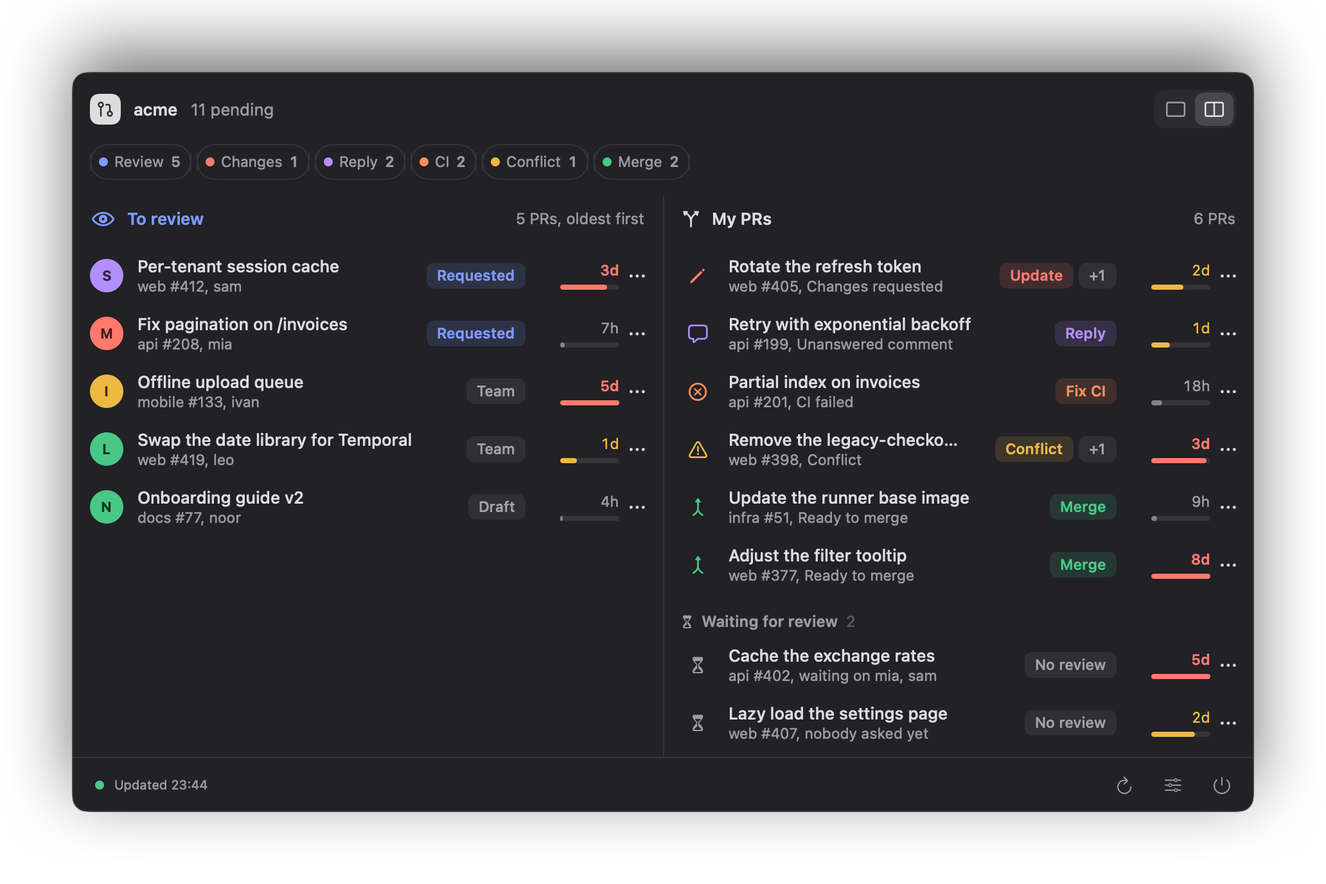
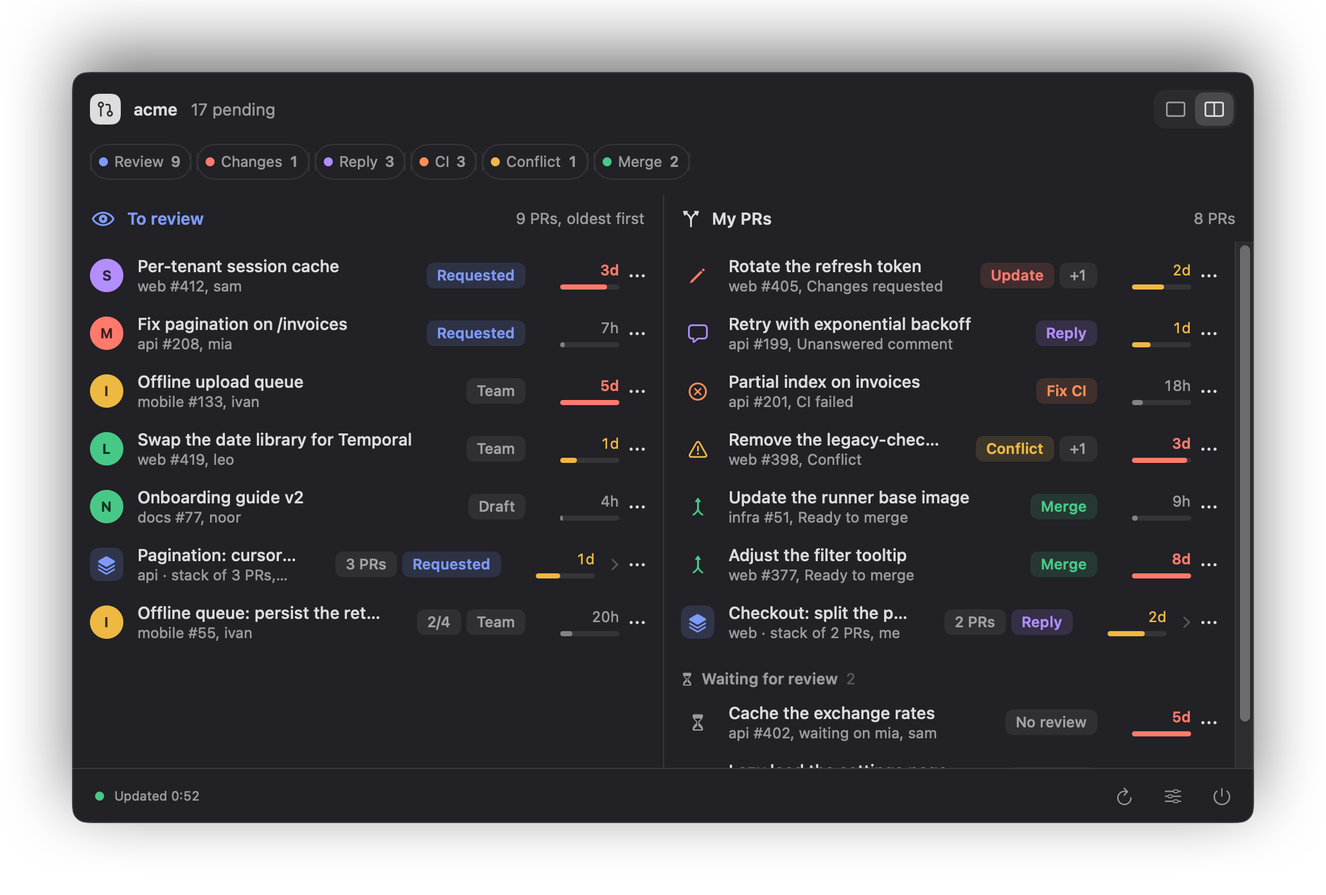
Bring the READMEs up to date and add pictures of agents, stacks and batches
Both READMEs now cover reviews with Claude (background, follow-ups, Automatic
and Ask me, the request, the folder), stacks and reviewing several pull
requests at once, the Dock icon, the What's new page and the new wizard steps.
The limits, privacy notes, settings table and roadmap follow.

The popover takes an initial state (a stack opened, pull requests ticked, a
review open) so the README pictures can show those screens, and
`make screenshots` renders them. The other pictures are rendered again with
the demo data, which now has stacks.

diff --git a/Sources/PRPulse/PopoverView.swift b/Sources/PRPulse/PopoverView.swift
@@ -21,6 +21,9 @@ struct PopoverView: View {
     var entersOnAppear = false
     /// Called when something inside the popover changes what it needs to show, so its window can follow.
     var onContentChange: () -> Void = {}
+    /// What the pictures of the README start with: a stack opened, pull requests ticked, the agents with a review open.
+    var initialStack: (tab: PopoverTab, key: StackKey)?
+    var initialSelection: Set<PullRequestRef>?
     let onRefresh: () -> Void
     let onSettings: () -> Void
 
@@ -44,6 +47,9 @@ struct PopoverView: View {
         agentFocus: AgentFocus = AgentFocus(),
         entersOnAppear: Bool = false,
         onContentChange: @escaping () -> Void = {},
+        initialStack: (tab: PopoverTab, key: StackKey)? = nil,
+        initialSelection: Set<PullRequestRef>? = nil,
+        initialAgentRun: UUID? = nil,
         initialTab: PopoverTab = .review,
         initialFilter: ActionLane? = nil,
         onRefresh: @escaping () -> Void,
@@ -62,11 +68,15 @@ struct PopoverView: View {
         self.agentFocus = agentFocus
         self.entersOnAppear = entersOnAppear
         self.onContentChange = onContentChange
+        self.initialStack = initialStack
+        self.initialSelection = initialSelection
         self.onRefresh = onRefresh
         self.onSettings = onSettings
         _tab = LocalState(initialValue: initialTab)
         _filter = LocalState(initialValue: initialFilter)
         _entered = LocalState(initialValue: !entersOnAppear)
+        _showsAgents = LocalState(initialValue: initialAgentRun != nil)
+        _openRun = LocalState(initialValue: initialAgentRun)
     }
 
     private static let singleWidth: CGFloat = 560
@@ -133,7 +143,7 @@ struct PopoverView: View {
                     .folded(!isSingle, height: 50)
                 LaneFilterBar(lanes: summary.activeLanes, summary: summary, selection: laneSelection(summary))
                     .padding(.bottom, 12)
-                SummaryPanes(summary: summary, layout: layout, tab: tab, filter: filter, entered: entered, showsOwner: data.showsOwner, onMute: onMute, onReview: onReview, onReviewInDesktop: onReviewInDesktop, onReviewGroup: onReviewGroup, onReviewEach: onReviewEach, onContentChange: onContentChange)
+                SummaryPanes(summary: summary, layout: layout, tab: tab, filter: filter, entered: entered, showsOwner: data.showsOwner, onMute: onMute, onReview: onReview, onReviewInDesktop: onReviewInDesktop, onReviewGroup: onReviewGroup, onReviewEach: onReviewEach, initialStack: initialStack, initialSelection: initialSelection, onContentChange: onContentChange)
             }
         }
     }
@@ -199,6 +209,8 @@ private struct SummaryPanes: View {
     let onReviewInDesktop: ((PullRequestSnapshot) -> Void)?
     let onReviewGroup: (([PullRequestSnapshot], ReviewRequest.Scope) -> Void)?
     let onReviewEach: (([PullRequestSnapshot]) -> Void)?
+    var initialStack: (tab: PopoverTab, key: StackKey)?
+    var initialSelection: Set<PullRequestRef>?
     let onContentChange: () -> Void
 
     @LocalState private var heights: [PopoverTab: CGFloat] = [:]
@@ -236,6 +248,13 @@ private struct SummaryPanes: View {
         .animation(PopoverMotion.spring, value: tab)
         .onChange(of: openStacks) { _, _ in onContentChange() }
         .onChange(of: selecting) { _, _ in onContentChange() }
+        .onAppear {
+            if let initialStack { openStacks[initialStack.tab] = initialStack.key }
+            if let initialSelection {
+                selecting = true
+                selection = initialSelection
+            }
+        }
     }
 
     // MARK: Panes

diff --git a/Sources/PRPulse/ReadmeShots.swift b/Sources/PRPulse/ReadmeShots.swift
@@ -16,6 +16,9 @@ enum ReadmeShots {
             render(HeroScene(scheme: scheme, data: data), named: "hero-\(tag)", scheme: scheme, to: directory)
             render(floating(popover(data, scheme, layout: .single), radius: 12, scheme: scheme), named: "popover-\(tag)", scheme: scheme, to: directory)
             render(floating(popover(data, scheme, layout: .split), radius: 12, scheme: scheme), named: "popover-split-\(tag)", scheme: scheme, to: directory)
+            render(floating(popover(data, scheme, layout: .single, stack: StackKey(owner: "acme", repo: "api", number: 7)), radius: 12, scheme: scheme), named: "stack-\(tag)", scheme: scheme, to: directory)
+            render(floating(popover(data, scheme, layout: .single, selection: Self.picked), radius: 12, scheme: scheme), named: "batch-\(tag)", scheme: scheme, to: directory)
+            render(floating(agents(data, scheme), radius: 12, scheme: scheme), named: "agents-\(tag)", scheme: scheme, to: directory)
             render(floating(DemoSnapshot.wizard(.exceptions), radius: 16, scheme: scheme), named: "wizard-\(tag)", scheme: scheme, to: directory)
             render(floating(DemoSnapshot.settings(.organization, login: "octocat"), radius: 16, scheme: scheme), named: "settings-\(tag)", scheme: scheme, to: directory)
             render(StatesStrip(scheme: scheme), named: "menubar-\(tag)", scheme: scheme, to: directory)
@@ -23,9 +26,35 @@ enum ReadmeShots {
         }
     }
 
-    private static func popover(_ data: ViewData, _ scheme: ColorScheme, layout: PopoverLayout) -> some View {
-        PopoverView(data: data, layout: .constant(layout), onRefresh: {}, onSettings: {})
-            .background(Color(nsColor: scheme == .dark ? NSColor(hex: 0x24252B) : NSColor(hex: 0xF5F5F8)))
+    private static let picked: Set<PullRequestRef> = [
+        PullRequestRef(owner: "acme", repo: "api", number: 301),
+        PullRequestRef(owner: "acme", repo: "api", number: 302),
+        PullRequestRef(owner: "acme", repo: "api", number: 303),
+        PullRequestRef(owner: "acme", repo: "web", number: 412),
+    ]
+
+    private static func popover(
+        _ data: ViewData, _ scheme: ColorScheme, layout: PopoverLayout, stack: StackKey? = nil, selection: Set<PullRequestRef>? = nil
+    ) -> some View {
+        PopoverView(
+            data: data, layout: .constant(layout),
+            onReviewGroup: stack != nil || selection != nil ? { _, _ in } : nil,
+            onReviewEach: stack != nil || selection != nil ? { _ in } : nil,
+            initialStack: stack.map { (PopoverTab.review, $0) }, initialSelection: selection,
+            onRefresh: {}, onSettings: {}
+        )
+        .background(Color(nsColor: scheme == .dark ? NSColor(hex: 0x24252B) : NSColor(hex: 0xF5F5F8)))
+    }
+
+    /// The panel with the agents open and a review that is ready, with its follow-up box.
+    private static func agents(_ data: ViewData, _ scheme: ColorScheme) -> some View {
+        let runs = DemoSnapshot.sampleRuns()
+        return PopoverView(
+            data: data, layout: .constant(.single),
+            agentRuns: runs, agentActions: AgentActions(), initialAgentRun: runs.runs[1].id,
+            onRefresh: {}, onSettings: {}
+        )
+        .background(Color(nsColor: scheme == .dark ? NSColor(hex: 0x24252B) : NSColor(hex: 0xF5F5F8)))
     }
 
     private static func floating<Content: View>(_ view: Content, radius: CGFloat, scheme: ColorScheme) -> some View {

diff --git a/Sources/PRPulse/DemoSnapshot.swift b/Sources/PRPulse/DemoSnapshot.swift
@@ -93,7 +93,7 @@ enum DemoSnapshot {
         case followUp
     }
 
-    private static func sampleRuns(_ scene: AgentScene = .plain) -> AgentRunList {
+    static func sampleRuns(_ scene: AgentScene = .plain) -> AgentRunList {
         let now = Date()
         func make(_ number: Int, _ repo: String, _ title: String, minutes: Double) -> AgentRun {
             AgentRun(

diff --git a/README.md b/README.md
@@ -6,7 +6,7 @@
 
 <p align="center">
   <b>Know which pull requests need you, before anyone has to ask.</b><br>
-  A native menu bar app for macOS that watches one GitHub organization and tells you what to act on.
+  A native menu bar app for macOS that watches your GitHub organizations and tells you what to act on.
 </p>
 
 <p align="center">
@@ -20,6 +20,7 @@
 <p align="center">
   <a href="#install">Install</a> ·
   <a href="#what-you-get">What you get</a> ·
+  <a href="#review-pull-requests-with-claude">Claude</a> ·
   <a href="#what-counts-as-needs-you">What counts</a> ·
   <a href="#privacy">Privacy</a> ·
   <a href="#development">Development</a> ·
@@ -49,7 +50,9 @@ Tap the action filters to dim everything else, or switch between a single view a
 
 Under **My PRs** there is a quieter section, **Waiting for review**: your own PRs that went a couple of days (you choose how many) without a single review. They ask nothing of you and never change the icon, but each one has a *Copy link* button so you can nudge the right person.
 
-Every row has a **⋯** menu: open on GitHub, copy the link and, on the review list, *Mute this repository* so it stops showing without opening Settings.
+Every row has a **⋯** menu: open on GitHub, copy the link and, on the review list, *Review with Claude* and *Mute this repository* so it stops showing without opening Settings.
+
+Pull requests in a GitHub **stack** are put together in one row, and you can tick several to review at once; see [Stacks, and several pull requests at once](#stacks-and-several-pull-requests-at-once).
 
 <table>
   <tr>
@@ -101,7 +104,7 @@ Right click (or control click) the icon for the things you do without opening th
 
 ### Set up in a minute
 
-A short wizard connects your account, picks the organization, and asks what to leave out. A live preview of the popover on the left reacts to every choice, so you see the effect of ignoring a repository before you finish.
+A short wizard connects your account, picks the organizations, asks what to leave out and how you want to be told, whether Claude may review for you, and which mascot lives on your screen. A live preview of the popover on the left reacts to every choice, so you see the effect of ignoring a repository before you finish.
 
 <p align="center">
   <picture>
@@ -110,7 +113,9 @@ A short wizard connects your account, picks the organization, and asks what to l
   </picture>
 </p>
 
-Everything can be changed later in **Settings**, which counts your unsaved changes, marks the section they are in, and lets you discard them or save with ⌘S.
+Everything can be changed later in **Settings**, which counts your unsaved changes, marks the section they are in, and lets you discard them or save with ⌘S. A **What's new** page there lists what changed in each version.
+
+While the wizard or Settings is open, PRPulse shows in the Dock and in the app switcher (⌘Tab), so you can find the window again after another app takes the front. It goes back to the menu bar alone when the last window closes.
 
 <p align="center">
   <picture>
@@ -135,6 +140,7 @@ A little friend lives in the bottom right corner of your screen and reacts to wh
 | Nothing to do | calm, and asleep after half an hour of quiet |
 | Something needs you | alert, with the count on its shoulder |
 | A new item arrived | jumps for joy and says it in a bubble, next to the system notification |
+| A review by Claude is ready, or waits for your OK | says so in a bubble, next to the notification |
 | A request, or one of your PRs, waits for 3 days or more | worried, with a sweat drop |
 | Refreshing | thinking |
 | Can't reach GitHub | sad |
@@ -156,15 +162,52 @@ Six characters come with the app. To add your own, drop a folder with a `sprites
 
 The moods are `calm`, `sleep`, `alert`, `joy`, `worried`, `think` and `sad`. Only `calm` is required; a mood you leave out plays `calm`. `make mascots` redraws the built-in ones.
 
-### Ask Claude to review a PR
+### Review pull requests with Claude
 
-On a pull request waiting for your review, the `⋯` menu (and a right click) has **Review with Claude**. With [Claude Code](https://claude.com/claude-code) installed and signed in (run `claude` once in a terminal and use `/login`), it **runs in the background**: a `✦` button appears in the panel header with the reviews in progress (what the agent is reading right now, and for how long), you get a notification when one is ready, and opening it shows the review with buttons to continue the conversation in Claude Desktop or Terminal. The agent reads on its own: the code and the PR (`gh pr view`, `gh pr diff`, `git log`…). For anything else, Settings → Agents has **Approvals**. **Automatic** (the default) uses Claude Code's [auto mode](https://code.claude.com/docs/en/permission-modes): its classifier decides what is safe, so reviews rarely wait for you. PRPulse keeps it read-only on top of that: its commands run in a sandbox where the repository folder cannot be written and only GitHub can be reached (`~/.ssh`, `~/.aws` and `~/.gnupg` cannot be read), and editing files, changing git or writing to GitHub (`gh pr comment`, `gh api`…) is denied. If auto mode is not available to you, Claude Code asks instead. **Ask me** keeps the review waiting with the command shown, with a notification, until you press Allow or Deny (once, never remembered). Under a review that is ready there is a box to **ask a follow-up** in the same conversation. Without Claude Code, or from the menu's second item, it opens a draft in Claude Desktop instead (you press Enter to send it). The request holds the PR's address, the focus (performance, security, code and project conventions) and a note not to post anything on GitHub. If you already have a review skill under `~/.claude` or in a plugin, the request names it instead; Settings → Agents lets you pick one and edit the text. The session opens in the folder of the repository's clone (PRPulse looks in your usual folders and asks when it cannot find one), or, if you set a **default project** for the organization, in that folder for every repository of it: handy when you keep all of an organization's projects under one root folder and run your sessions there. Only the PR's address and number go in the request, never its title or description, which other people wrote. Cursor and Codex are planned.
+On a pull request waiting for your review, the `⋯` menu (and a right click) has **Review with Claude**. It needs [Claude Code](https://claude.com/claude-code) installed and signed in (run `claude` once in a terminal and use `/login`), and [`gh`](https://cli.github.com) signed in, because the agent reads the pull request with it.
+
+<p align="center">
+  <picture>
+    <source media="(prefers-color-scheme: dark)" srcset="docs/images/agents-dark.png">
+    <img src="docs/images/agents-light.png" alt="A review by Claude that is ready, with a box to ask a follow-up" width="520">
+  </picture>
+</p>
+
+- **In the background.** Nothing opens. A `✦` button appears in the panel header with the reviews in progress (what the agent is reading right now, and for how long) and the ones done. A notification and the mascot tell you when one is ready.
+- **Ask more.** Under a review that is ready there is a box to **ask a follow-up** in the same conversation. *Stop* interrupts an answer and keeps the review. You can also continue it in Claude Desktop or Terminal, copy it, or try again.
+- **Read-only.** The agent reads the code and the PR on its own (`gh pr view`, `gh pr diff`, `git log`…). Settings → Agents → **Approvals** decides the rest:
+  - **Automatic**, the default, uses Claude Code's [auto mode](https://code.claude.com/docs/en/permission-modes): its classifier decides what is safe, so reviews rarely wait for you. PRPulse keeps it read-only on top of that: commands run in a sandbox where the repository folder cannot be written and only GitHub can be reached (`~/.ssh`, `~/.aws` and `~/.gnupg` cannot be read), and editing files, changing git or writing to GitHub (`gh pr comment`, `gh api`…) is denied. If auto mode is not available to you, Claude Code asks instead.
+  - **Ask me** keeps the review waiting, with the command shown and a notification, until you press Allow or Deny (once, never remembered).
+- **The request.** It holds the pull request's address, the focus (performance, security, code and project conventions) and a note not to post anything on GitHub. Only the address and number go in, never the title or description, which other people wrote. If you have a review skill under `~/.claude` or in a plugin, the request names it; Settings → Agents lets you pick a skill and edit the text (`{url}`, `{urls}`, `{repo}`, `{number}` and `{skill}` are filled in).
+- **The folder.** The session opens in the clone of the repository (PRPulse looks in your usual folders and asks when it cannot find one), or in the **default project** of the organization if you set one: handy when you keep all of an organization's projects under one root folder and run your sessions there.
+- **Claude Desktop.** Without Claude Code, or from the menu's second item, **Open draft in Claude Desktop** opens a session with the request already written (you press Enter to send it). A review that ran in the background does not show in Claude Desktop's list by itself; Help → Troubleshooting → *Import Claude Code CLI sessions* there may bring it, and a note under each review says so.
+
+Cursor and Codex are planned.
 
 ### Stacks, and several pull requests at once
 
 Pull requests in a [GitHub stack](https://docs.github.com/en/pull-requests/get-started/about-stacked-prs) are put together in one row, with a layers icon, how many there are, and a `1/3` on each of them. Click the row and the list becomes that stack, bottom first, with **Review the stack with Claude** (one conversation that sees all of them, from the bottom to the top) and **Review each with Claude** (one conversation for each). In a list that has only some of a stack, the row says so (`2 of 4 PRs of a stack`). A host that does not have stacks, such as GitHub Enterprise Server, shows the plain list.
 
 For pull requests that belong together without being a stack, for example one in each repository of the same feature, **Select** (above the list) puts a checkbox on every row. Tick the ones you want, a stack ticks all of its pull requests, then choose **Review together** or **Review each**. A review of several repositories opens in the first one's folder and can read the clones of the others (never write to them).
+
+<table>
+  <tr>
+    <td width="50%" align="center">
+      <picture>
+        <source media="(prefers-color-scheme: dark)" srcset="docs/images/stack-dark.png">
+        <img src="docs/images/stack-light.png" alt="A stack of three pull requests, open" width="100%">
+      </picture>
+      <br><sub>A stack, open: only its pull requests</sub>
+    </td>
+    <td width="50%" align="center">
+      <picture>
+        <source media="(prefers-color-scheme: dark)" srcset="docs/images/batch-dark.png">
+        <img src="docs/images/batch-light.png" alt="Pull requests ticked to be reviewed together" width="100%">
+      </picture>
+      <br><sub>Several ticked, from any repository</sub>
+    </td>
+  </tr>
+</table>
 
 ### Quiet by design
 
@@ -219,6 +262,8 @@ You need macOS 14 or later and the Swift toolchain (Xcode or the Command Line To
 2. **Organizations:** pick one or more. The ones you worked in most over the last 90 days come first, with a count.
 3. **Exceptions:** tick repositories to ignore (they are listed from the organization) and edit the bot accounts to skip.
 4. **Settings:** refresh interval, notifications, open at login.
+5. **Reviews with Claude:** turn them on, see whether Claude Desktop and Claude Code are ready, and choose who approves (Automatic or Ask me).
+6. **Mascot:** pick the character that lives in the corner of your screen, or turn it off.
 
 > [!NOTE]
 > If your organization enforces SAML SSO, authorize the token for it on GitHub, otherwise the icon turns into the error state. The same happens if the organization is renamed or your token can't see it. Classic tokens must include the `repo` scope, or private repositories would never show up.
@@ -250,7 +295,7 @@ Every row shows how long the PR has been open: neutral under a day, amber from o
 
 - PRPulse talks **only to GitHub** (`api.github.com` and `github.com`) with your own credentials. There is no server of ours, no analytics and no telemetry.
 - A personal token is stored in the **macOS Keychain**. With the `gh` option, the token is read from `gh` on demand and never stored by PRPulse.
-- **Review with Claude** hands the PR's address to Claude Code or Claude Desktop on your Mac. PRPulse sends nothing anywhere for it; what they do with the request follows their own terms, and a background review uses your Claude plan like any other session. The reviews are kept in `~/Library/Application Support/PRPulse/` (the latest twenty), and nothing else is stored.
+- **Review with Claude** runs Claude Code on your Mac, or hands the request to Claude Desktop. PRPulse sends nothing anywhere for it: only the PR's address and number go in the request, what Claude does with it follows its own terms, and a background review uses your Claude plan like any other session. In the Automatic mode its commands run in a sandbox that cannot write to your repository and reaches only GitHub. The reviews are kept in `~/Library/Application Support/PRPulse/` (the latest twenty), and nothing else is stored.
 - Update checks read one small feed file from your releases page on `github.com`. Nothing about you or your Mac is sent.
 - Updates are signed with a key only the maintainer holds, and the app refuses anything that doesn't match.
 - The app is open source (MIT), so all of this is checkable.
@@ -263,7 +308,7 @@ Every row shows how long the PR has been open: neutral under a day, amber from o
 | **Organizations** | which organizations to watch |
 | **Exceptions** | repositories to ignore, your list of bot accounts, and two switches: ignore comments from bots, ignore PRs opened by bots |
 | **Mascot** | show it or not, which character, its size, where it sits, and your own characters |
-| **Agents** | turn "Review with Claude" on or off, check Claude Desktop and Claude Code, pick the review skill, set a default project folder per organization, edit the request, and the folders chosen for single repositories |
+| **Agents** | turn "Review with Claude" on or off, check Claude Desktop and Claude Code, choose who approves (Automatic or Ask me), pick the review skill, set a default project folder per organization, edit the request, and the folders chosen for single repositories |
 | **General** | refresh interval (1 to 30 minutes), popover layout, days before a PR counts as waiting for review, notifications, open at login, global shortcut, automatic updates, run the setup again |
 | **Diagnostics** | version, last sync, GitHub request budget, and a button that copies all of it for a bug report (no token, organization or PR names) |
 | **What's new** | what changed in each version of PRPulse, from the changelog that ships with the app |
@@ -272,6 +317,8 @@ Every row shows how long the PR has been open: neutral under a day, amber from o
 
 - Sign-in through the browser is not available yet; use `gh` or a token.
 - The app is signed ad hoc, so after each update macOS may ask again whether PRPulse can read its Keychain item. Choose **Always Allow**; if you deny it, the icon shows the error state.
+- Reviews with Claude need Claude Code and `gh` signed in; Cursor and Codex are not supported yet. Several background reviews at once use your Claude plan faster, and *Review each* on a big stack starts one for every pull request.
+- Stacks come from GitHub's own stacked pull requests. On a host without them, such as GitHub Enterprise Server, every pull request shows on its own row.
 - Versions before 0.3.0 don't update themselves: install the latest once, by hand or with `brew upgrade`.
 
 ## Development
@@ -279,7 +326,7 @@ Every row shows how long the PR has been open: neutral under a day, amber from o
 ```text
 Sources/PRPulseCore   rules, GitHub client, auth, notification planner (pure, tested)
 Sources/PRPulse       the macOS shell: status item, popover, wizard, settings
-Tests/                170+ unit tests (Swift Testing)
+Tests/                300+ unit tests (Swift Testing)
 scripts/              build, dmg, icon and test helpers
 docs/images/          the pictures above, generated by `make screenshots`
 ```
@@ -306,6 +353,8 @@ Ideas, in no particular order. Open an issue if one matters to you.
 - [ ] Sign in with GitHub in the browser (device flow)
 - [ ] Snooze a PR for a while, not only mute its repository
 - [ ] A shortcut you can change
+- [ ] Cursor and Codex as review agents
+- [ ] A limit for how many background reviews run at once
 
 ## Contributing
 

diff --git a/README.pt-BR.md b/README.pt-BR.md
@@ -6,7 +6,7 @@
 
 <p align="center">
   <b>Saiba quais pull requests precisam de você, antes que alguém precise cobrar.</b><br>
-  Um app nativo de barra de menu para macOS que acompanha uma organização do GitHub e mostra o que exige uma ação sua.
+  Um app nativo de barra de menu para macOS que acompanha as suas organizações do GitHub e mostra o que exige uma ação sua.
 </p>
 
 <p align="center">
@@ -40,15 +40,24 @@ O PRPulse consulta o GitHub a cada poucos minutos, mantém **duas listas curtas*
 - **Minhas PRs:** as suas PRs que exigem uma ação, cada uma com o verbo que resolve: *Ajustar*, *Responder*, *Corrigir CI*, *Conflito*, *Merge*.
 - **Filtros por ação** e dois layouts, visão única ou lado a lado. A escolha fica salva.
 - **Esperando review:** uma seção mais discreta em *Minhas PRs* com as suas PRs que passaram alguns dias (você escolhe quantos) sem nenhum review. Elas não pedem nada de você e não mudam o ícone, mas cada uma tem o botão *Copiar link* para você cobrar a pessoa certa.
-- **Menu ⋯ em cada linha:** abrir no GitHub, copiar o link e, na lista de revisão, *Silenciar o repositório*, sem abrir os Ajustes.
+- **Menu ⋯ em cada linha:** abrir no GitHub, copiar o link e, na lista de revisão, *Revisar com o Claude* e *Silenciar o repositório*, sem abrir os Ajustes.
 - **Uma ou várias organizações**, e um **atalho global**, ⌥⌘P, que abre e fecha o painel de qualquer lugar.
 - **Um ícone que avisa antes de você olhar:** um glifo de pull request que acompanha o tema da barra quando está tudo em dia, vira uma pílula laranja com o número quando algo precisa de você, faz um anel de pulso quando chega um item novo e fica vermelho se não conseguir atualizar.
 - **Menu do botão direito:** atualizar agora (⌘R), abrir no GitHub (buscas já filtradas pela sua organização), liga/desliga de notificações, Ajustes (⌘,), Sobre e Sair.
-- **Assistente de configuração** com prévia ao vivo do popover, e uma tela de **Ajustes** que conta as alterações não salvas (⌘S salva).
+- **Assistente de configuração** com prévia ao vivo do popover (conexão, organizações, exceções, frequência, revisão com o Claude e mascote), e uma tela de **Ajustes** que conta as alterações não salvas (⌘S salva) e tem uma aba **Novidades** com o que mudou em cada versão.
+- **Um ícone no Dock enquanto uma janela está aberta:** com o assistente ou os Ajustes abertos, o PRPulse aparece no Dock e no ⌘Tab, para você achar a janela de novo depois de outro app passar na frente. Ao fechar a última, ele volta a ficar só na barra de menu.
 - **Atualiza sozinho:** busca versões novas e instala em segundo plano (dá para desligar em Ajustes).
 - **Um mascote no canto da tela:** um amiguinho no canto inferior direito que reage ao que acontece (alerta, comemora item novo, se preocupa com PR antiga, dorme quando está tudo em dia). Dá para arrastar, trocar de personagem e de tamanho, e adicionar o seu em `~/Library/Application Support/PRPulse/Mascots/`. Vem ligado e dá para desligar em Ajustes ou pelo menu do ícone.
-- **Peça ao Claude para revisar uma PR:** nas PRs que esperam o seu review, o menu `⋯` (e o botão direito) tem **Revisar com o Claude**. Com o [Claude Code](https://claude.com/claude-code) instalado e logado (rode `claude` uma vez num terminal e use `/login`), ele **roda em segundo plano**: um botão `✦` aparece no topo do painel com os reviews em andamento (o que o agente está lendo agora e há quanto tempo), você recebe uma notificação quando um fica pronto, e ao abrir vê o review com botões para continuar a conversa no Claude Desktop ou no Terminal. O agente lê por conta própria: o código e a PR (`gh pr view`, `gh pr diff`, `git log`…). Para o resto, Ajustes → Agentes tem **Aprovações**. **Automático** (o padrão) usa o [modo automático](https://code.claude.com/docs/en/permission-modes) do Claude Code: o classificador dele decide o que é seguro, então os reviews raramente esperam por você. O PRPulse mantém o review só de leitura por cima disso: os comandos rodam num sandbox em que a pasta do repositório não pode ser escrita e só o GitHub pode ser acessado (`~/.ssh`, `~/.aws` e `~/.gnupg` não podem ser lidos), e editar arquivos, mexer no git ou escrever no GitHub (`gh pr comment`, `gh api`…) é negado. Se o modo automático não estiver disponível para você, o Claude Code pergunta. **Perguntar a mim** deixa o review esperando, com o comando à mostra e uma notificação, até você apertar Permitir ou Negar (uma vez, nunca fica lembrado). Embaixo de um review pronto há um campo para **perguntar mais** na mesma conversa. Sem o Claude Code, ou pelo segundo item do menu, ele abre um rascunho no Claude Desktop (você aperta Enter para enviar). O pedido leva o endereço da PR, o foco (performance, segurança, padrão de código e do projeto) e um aviso para não publicar nada no GitHub. Se você já tem uma skill de review em `~/.claude` ou num plugin, o pedido cita essa skill; em Ajustes → Agentes dá para escolher a skill e editar o texto. A sessão abre na pasta do clone do repositório (o PRPulse procura nas suas pastas de sempre e pergunta quando não acha) ou, se você definir um **projeto padrão** para a organização, nessa pasta para todos os repositórios dela: útil quando você guarda todos os projetos de uma organização sob uma pasta raiz e roda as suas sessões ali. Só o endereço e o número da PR vão no pedido, nunca o título nem a descrição, que foram escritos por outras pessoas. Cursor e Codex estão nos planos.
-- **Stacks e várias PRs de uma vez:** as PRs de uma [stack do GitHub](https://docs.github.com/pt/pull-requests/get-started/about-stacked-prs) aparecem juntas numa linha só, com um ícone de camadas, quantas são e um `1/3` em cada uma. Ao clicar, a lista vira a stack, da base ao topo, com **Revisar a stack com o Claude** (uma conversa que vê todas, da base ao topo) e **Revisar cada uma com o Claude**. Para PRs que são da mesma funcionalidade sem ser uma stack, como uma em cada repositório, **Selecionar** (acima da lista) põe uma caixa em cada linha: marque as que quiser, uma stack marca todas as suas PRs, e escolha **Revisar juntas** ou **Revisar cada uma**. Um review de vários repositórios abre na pasta do primeiro e pode ler os clones dos outros (nunca escrever neles).
+- **Peça ao Claude para revisar uma PR:** nas PRs que esperam o seu review, o menu `⋯` (e o botão direito) tem **Revisar com o Claude**. Precisa do [Claude Code](https://claude.com/claude-code) instalado e logado (rode `claude` uma vez num terminal e use `/login`) e do [`gh`](https://cli.github.com) logado, porque o agente lê a PR com ele.
+  - **Em segundo plano:** nada se abre. Um botão `✦` aparece no topo do painel com os reviews em andamento (o que o agente está lendo agora e há quanto tempo) e os já prontos. Uma notificação e o mascote avisam quando um fica pronto.
+  - **Perguntar mais:** embaixo de um review pronto há um campo para **perguntar mais** na mesma conversa. *Parar* interrompe uma resposta e mantém o review. Dá para continuar no Claude Desktop ou no Terminal, copiar ou tentar de novo.
+  - **Só leitura:** o agente lê o código e a PR por conta própria (`gh pr view`, `gh pr diff`, `git log`…). Em Ajustes → Agentes, **Aprovações** decide o resto. **Automático** (o padrão) usa o [modo automático](https://code.claude.com/docs/en/permission-modes) do Claude Code: o classificador dele decide o que é seguro, então os reviews raramente esperam por você. O PRPulse mantém o review só de leitura por cima disso: os comandos rodam num sandbox em que a pasta do repositório não pode ser escrita e só o GitHub pode ser acessado (`~/.ssh`, `~/.aws` e `~/.gnupg` não podem ser lidos), e editar arquivos, mexer no git ou escrever no GitHub (`gh pr comment`, `gh api`…) é negado. Se o modo automático não estiver disponível para você, o Claude Code pergunta. **Perguntar a mim** deixa o review esperando, com o comando à mostra e uma notificação, até você apertar Permitir ou Negar (uma vez, nunca fica lembrado).
+  - **O pedido:** leva o endereço da PR, o foco (performance, segurança, padrão de código e do projeto) e um aviso para não publicar nada no GitHub. Só o endereço e o número vão, nunca o título nem a descrição, que foram escritos por outras pessoas. Se você tem uma skill de review em `~/.claude` ou num plugin, o pedido cita essa skill; em Ajustes → Agentes dá para escolher a skill e editar o texto (`{url}`, `{urls}`, `{repo}`, `{number}` e `{skill}` são preenchidos).
+  - **A pasta:** a sessão abre na pasta do clone do repositório (o PRPulse procura nas suas pastas de sempre e pergunta quando não acha) ou, se você definir um **projeto padrão** para a organização, nessa pasta: útil quando você guarda todos os projetos de uma organização sob uma pasta raiz e roda as suas sessões ali.
+  - **Claude Desktop:** sem o Claude Code, ou pelo segundo item do menu, **Abrir rascunho no Claude Desktop** abre uma sessão com o pedido já escrito (você aperta Enter para enviar). Um review feito em segundo plano não aparece sozinho na lista do Claude Desktop; *Help → Troubleshooting → Import Claude Code CLI sessions* lá pode trazê-lo, e uma nota embaixo de cada review avisa isso.
+  - Cursor e Codex estão nos planos.
+- **Stacks e várias PRs de uma vez:** as PRs de uma [stack do GitHub](https://docs.github.com/pt/pull-requests/get-started/about-stacked-prs) aparecem juntas numa linha só, com um ícone de camadas, quantas são e um `1/3` em cada uma. Ao clicar, a lista vira a stack, da base ao topo, com **Revisar a stack com o Claude** (uma conversa que vê todas, da base ao topo) e **Revisar cada uma com o Claude**. Quando a sua lista tem só algumas PRs de uma stack, a linha diz (`2 de 4 PRs de uma stack`). Num host sem stacks, como o GitHub Enterprise Server, cada PR aparece na sua própria linha.
+  - **Várias de uma vez:** para PRs que são da mesma funcionalidade sem ser uma stack, como uma em cada repositório, **Selecionar** (acima da lista) põe uma caixa em cada linha: marque as que quiser, uma stack marca todas as suas PRs, e escolha **Revisar juntas** ou **Revisar cada uma**. Um review de vários repositórios abre na pasta do primeiro e pode ler os clones dos outros (nunca escrever neles).
 - **Silencioso por padrão:** os comentários de bots não pedem resposta e as PRs que eles abrem, como as do Dependabot, ficam fora da lista de revisão (dois interruptores em Ajustes, ambos ligados por padrão), a primeira execução não despeja o backlog antigo em notificações e cada item avisa uma vez.
 
 <table>
@@ -64,6 +73,32 @@ O PRPulse consulta o GitHub a cada poucos minutos, mantém **duas listas curtas*
         <source media="(prefers-color-scheme: dark)" srcset="docs/images/wizard-dark.png">
         <img src="docs/images/wizard-light.png" alt="O assistente de configuração" width="100%">
       </picture>
+    </td>
+  </tr>
+</table>
+
+<table>
+  <tr>
+    <td width="33%" align="center">
+      <picture>
+        <source media="(prefers-color-scheme: dark)" srcset="docs/images/agents-dark.png">
+        <img src="docs/images/agents-light.png" alt="Um review do Claude pronto, com o campo para perguntar mais" width="100%">
+      </picture>
+      <br><sub>Um review pronto</sub>
+    </td>
+    <td width="33%" align="center">
+      <picture>
+        <source media="(prefers-color-scheme: dark)" srcset="docs/images/stack-dark.png">
+        <img src="docs/images/stack-light.png" alt="Uma stack de três PRs, aberta" width="100%">
+      </picture>
+      <br><sub>Uma stack, aberta</sub>
+    </td>
+    <td width="33%" align="center">
+      <picture>
+        <source media="(prefers-color-scheme: dark)" srcset="docs/images/batch-dark.png">
+        <img src="docs/images/batch-light.png" alt="PRs marcadas para revisar juntas" width="100%">
+      </picture>
+      <br><sub>Várias marcadas</sub>
     </td>
   </tr>
 </table>
@@ -111,7 +146,9 @@ Você precisa de macOS 14 ou mais novo e do toolchain Swift (Xcode ou as Command
 1. **Conexão:** reaproveite o login do [`gh`](https://cli.github.com) ou cole um token pessoal com os escopos `repo` e `read:org`.
 2. **Organizações:** escolha uma ou mais. As que você mais usou nos últimos 90 dias vêm primeiro, com a contagem.
 3. **Exceções:** marque repositórios para ignorar (eles são listados a partir da organização) e edite as contas de bot a pular. Ali também há dois interruptores: ignorar comentários de bots e ignorar as PRs que eles abrem.
-4. **Ajustes:** frequência de atualização, notificações, abrir ao iniciar o Mac e atualizações automáticas. Em Ajustes há também uma aba de **Diagnóstico**, com um botão que copia as informações para um relato de problema (sem token, nem nomes de organização ou de PR). A aba **Novidades** mostra o que mudou em cada versão.
+4. **Ajustes:** frequência de atualização, notificações, abrir ao iniciar o Mac e atualizações automáticas. Em Ajustes há também uma aba de **Diagnóstico**, com um botão que copia as informações para um relato de problema (sem token, nem nomes de organização ou de PR), e a aba **Novidades**, que mostra o que mudou em cada versão.
+5. **Revisão com o Claude:** ligue ou desligue, veja se o Claude Desktop e o Claude Code estão prontos e escolha quem aprova (Automático ou Perguntar a mim).
+6. **Mascote:** escolha o personagem que fica no canto da tela, ou desligue.
 
 > [!NOTE]
 > Se a sua organização exige SAML SSO, autorize o token para ela no GitHub, senão o ícone vai para o estado de erro. O mesmo acontece se a organização for renomeada ou o token não enxergá-la. Tokens clássicos precisam do escopo `repo`, ou os repositórios privados nunca aparecem.
@@ -139,7 +176,7 @@ PRs abertas de outras pessoas na organização em que você não enviou review. 
 
 - O PRPulse fala **só com o GitHub** (`api.github.com` e `github.com`), com as suas próprias credenciais. Não há servidor nosso, análise de uso nem telemetria.
 - Um token pessoal fica no **Keychain do macOS**. Com a opção `gh`, o token é lido do `gh` na hora e nunca guardado pelo PRPulse.
-- **Revisar com o Claude** entrega o endereço da PR ao Claude Code ou ao Claude Desktop, no seu Mac. O PRPulse não envia nada para lugar nenhum por causa disso; o que eles fazem com o pedido segue os termos deles, e um review em segundo plano gasta o seu plano do Claude como qualquer outra sessão. Os reviews ficam em `~/Library/Application Support/PRPulse/` (os últimos vinte), e mais nada é guardado.
+- **Revisar com o Claude** roda o Claude Code no seu Mac, ou entrega o pedido ao Claude Desktop. O PRPulse não envia nada para lugar nenhum por causa disso: só o endereço e o número da PR vão no pedido, o que o Claude faz com ele segue os termos dele, e um review em segundo plano gasta o seu plano do Claude como qualquer outra sessão. No modo Automático, os comandos rodam num sandbox que não escreve no seu repositório e só alcança o GitHub. Os reviews ficam em `~/Library/Application Support/PRPulse/` (os últimos vinte), e mais nada é guardado.
 - A checagem de atualização lê um arquivo pequeno da página de releases em `github.com`. Nada sobre você ou o seu Mac é enviado.
 - As atualizações são assinadas com uma chave que só quem mantém o projeto tem, e o app recusa o que não bater.
 - O app é código aberto (MIT), então tudo isso pode ser conferido.
@@ -148,6 +185,8 @@ PRs abertas de outras pessoas na organização em que você não enviou review. 
 
 - Entrar pelo navegador ainda não existe; use o `gh` ou um token.
 - O app é assinado ad hoc, então depois de cada atualização o macOS pode perguntar de novo se o PRPulse pode ler o item do Keychain. Escolha **Sempre Permitir**; se negar, o ícone mostra o estado de erro.
+- A revisão com o Claude precisa do Claude Code e do `gh` logados; Cursor e Codex ainda não são suportados. Vários reviews em segundo plano ao mesmo tempo gastam o seu plano do Claude mais rápido, e *Revisar cada uma* numa stack grande começa um por PR.
+- As stacks vêm das PRs empilhadas do próprio GitHub. Num host sem elas, como o GitHub Enterprise Server, cada PR aparece na sua própria linha.
 - Versões anteriores à 0.3.0 não se atualizam sozinhas: instale a mais recente uma vez, à mão ou com `brew upgrade`.
 
 ## Desenvolvimento
